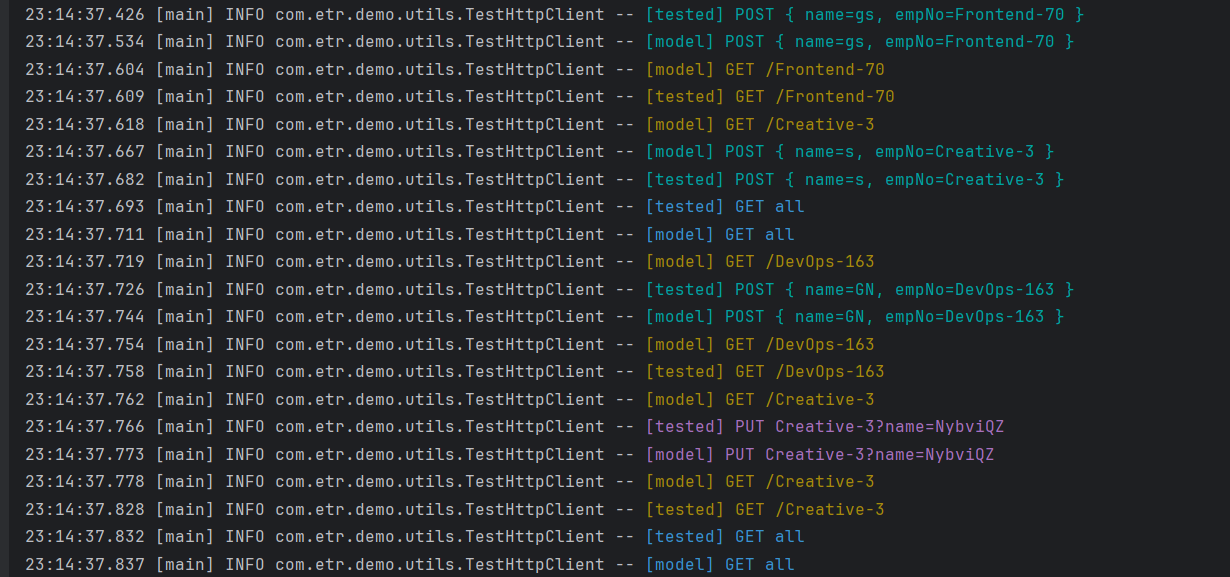
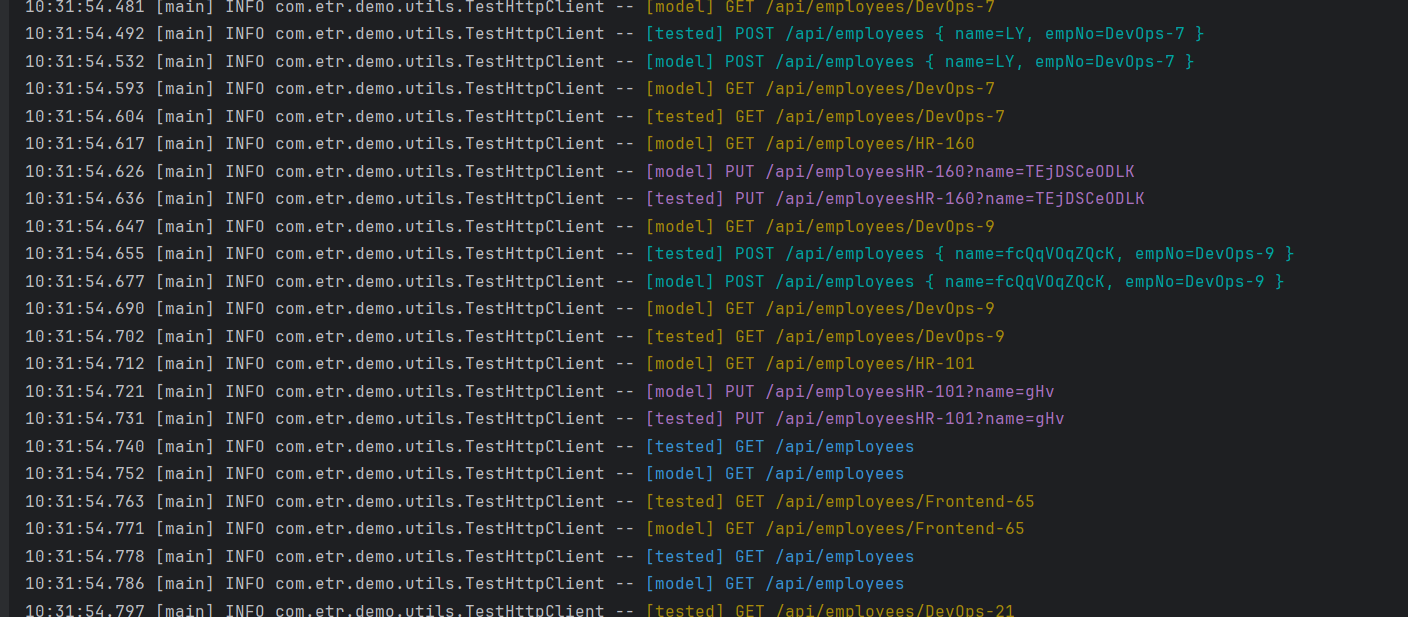
update readme

Changed region(s): [[0.0, 0.0, 0.9268, 1.0]]

diff --git a/src/test/java/com/etr/demo/utils/TestHttpClient.java b/src/test/java/com/etr/demo/utils/TestHttpClient.java
@@ -8,7 +8,6 @@ import org.springframework.web.client.RestTemplate;
 
 import java.util.Arrays;
 import java.util.List;
-import java.util.Map;
 import java.util.Optional;
 
 import static com.etr.demo.utils.LogColors.*;
@@ -21,17 +20,17 @@ public class TestHttpClient {
 	private final String baseUrl;
 	private final RestTemplate restTemplate = new RestTemplateBuilder().build();
 
-	public EmployeeResponse create(String empNo, String name) {
-		EmployeeRequest request = new EmployeeRequest(empNo, name);
-		log.info(CYAN.paint("[%s] POST { name=%s, empNo=%s }".formatted(clientName, name, empNo)));
-		return restTemplate.postForObject(baseUrl, request, EmployeeResponse.class);
+	public EmployeeDto create(String empNo, String name) {
+		CreateEmployeeRequest request = new CreateEmployeeRequest(empNo, name);
+		log.info(CYAN.paint("[%s] POST /api/employees { name=%s, empNo=%s }".formatted(clientName, name, empNo)));
+		return restTemplate.postForObject(baseUrl, request, EmployeeDto.class);
 	}
 
-	public Optional<EmployeeResponse> get(String empNo) {
-		log.info(YELLOW.paint("[%s] GET /%s".formatted(clientName, empNo)));
+	public Optional<EmployeeDto> get(String empNo) {
+		log.info(YELLOW.paint("[%s] GET /api/employees/%s".formatted(clientName, empNo)));
 		String url = baseUrl + "/" + empNo;
 		try {
-			return Optional.of(restTemplate.getForObject(url, EmployeeResponse.class));
+			return Optional.of(restTemplate.getForObject(url, EmployeeDto.class));
 		} catch (HttpClientErrorException.NotFound e) {
 			return Optional.empty();
 		}
@@ -39,19 +38,19 @@ public class TestHttpClient {
 
 	public void update(String employeeNo, String newName) {
 		String url = "%s/%s?name=%s".formatted(baseUrl, employeeNo, newName);
-		log.info(PURPLE.paint("[%s] PUT %s?name=%s".formatted(clientName, employeeNo, newName)));
+		log.info(PURPLE.paint("[%s] PUT /api/employees%s?name=%s".formatted(clientName, employeeNo, newName)));
 		restTemplate.put(url, null);
 	}
 
-	public List<EmployeeResponse> getAll() {
-		log.info(BLUE.paint("[%s] GET all".formatted(clientName)));
-		EmployeeResponse[] employees = restTemplate.getForObject(baseUrl, EmployeeResponse[].class);
+	public List<EmployeeDto> getAll() {
+		log.info(BLUE.paint("[%s] GET /api/employees".formatted(clientName)));
+		EmployeeDto[] employees = restTemplate.getForObject(baseUrl, EmployeeDto[].class);
 		return Arrays.asList(employees);
 	}
 
-	public record EmployeeResponse(String name, Long id, String employeeNo) {
+	public record EmployeeDto(String name, String employeeNo) {
 	}
 
-	public record EmployeeRequest(String employeeNo, String name) {
+	public record CreateEmployeeRequest(String employeeNo, String name) {
 	}
 }

diff --git a/README.md b/README.md
@@ -25,6 +25,7 @@ For the code examples in this demo, we'll use a simple SpringBoot application wi
 
 ![img.png](images/swagger.png)
 
+
 In this example, we'll use a Docker Compose file to spin up different versions of our application. One version will serve as the "model" or source of truth, while the other will be the version under test. Testcontainers and the _DockerComposeContainer_ class will help us manage these container.
 
 We'll also use Jqwik and a custom HTTP client to define actions supported by the API. Jqwik will then generate various action sequences with different parameters to test our service running in the containers. Regardless of whether the HTTP response is a success or failure, we'll compare the tested service's response with the expected response from the model.
@@ -47,11 +48,11 @@ class TestHttpClient {
 
     public EmployeeResponse create(String empNo, String name) { /* ... */ }
 
-    public Optional<EmployeeResponse> get(String empNo) { /* ... */ }
+    public Optional<EmployeeDto> get(String empNo) { /* ... */ }
 
     public void update(String empNo, String newName) { /* ... */ }
 
-    public List<EmployeeResponse> getAll() { /* ... */ }
+    public List<EmployeeDto> getAll() { /* ... */ }
 }
 ```
 ### Jqwik's Actions and Arbitraries
@@ -88,7 +89,7 @@ After declaring all our actions, we'll create an _ActionSequence_. We'll also wr
 ```java
 @Provide
 Arbitrary<ActionSequence<TestedVsModel>> mbtActions() {
-	return Arbitraries.sequences(Arbitraries.oneOf(
+    return Arbitraries.sequences(Arbitraries.oneOf(
         getOneEmployeeAction(),
         getAllEmplyeesAction(),
         createEmployeeAction(),
@@ -168,12 +169,9 @@ As a result, we can now instantiate a [`DockerComposeContainer`](https://java.te
 class ModelBasedTest {
 
 	@Container
-	static DockerComposeContainer<?> ENV = new DockerComposeContainer<>(
-            new File("src/test/resources/docker-compose-test.yml"))
-        .withExposedService("app-tested", 8080,
-            Wait.forHttp("/api/employees").forStatusCode(200))
-        .withExposedService("app-model", 8080,
-            Wait.forHttp("/api/employees").forStatusCode(200))
+	static DockerComposeContainer<?> ENV = new DockerComposeContainer<>(new File("src/test/resources/docker-compose-test.yml"))
+        .withExposedService("app-tested", 8080, Wait.forHttp("/api/employees").forStatusCode(200))
+        .withExposedService("app-model", 8080, Wait.forHttp("/api/employees").forStatusCode(200))
         .withExposedService("postgres", 5432);
 
 	// tests
@@ -198,25 +196,27 @@ private TestHttpClient testClient(int port) {
 ```
 
 If we run the _@Property_ test now, we'll get a sequence of thousands of requests, trying to find inconsistencies between the model and the tested service:
-```java
-23:14:38.767 [main] INFO TestHttpClient -- [tested] POST { name=mmSqEEUCZVoZhHLTSHnaBzASDSYdnYAkqvebImxyeqJf, empNo=Creative-79 }
-23:14:38.831 [main] INFO TestHttpClient -- [model] POST { name=mmSqEEUCZVoZhHLTSHnaBzASDSYdnYAkqvebImxyeqJf, empNo=Creative-79 }
-23:14:38.891 [main] INFO TestHttpClient -- [model] GET /Creative-79
-23:14:38.894 [main] INFO TestHttpClient -- [tested] GET /Creative-79
-23:14:38.898 [main] INFO TestHttpClient -- [tested] GET /Frontend-6
-23:14:38.947 [main] INFO TestHttpClient -- [model] GET /Frontend-6
-23:14:38.950 [main] INFO TestHttpClient -- [model] GET /DevOps-130
-23:14:38.954 [main] INFO TestHttpClient -- [tested] POST { name=tUX, empNo=DevOps-130 }
-23:14:38.980 [main] INFO TestHttpClient -- [model] POST { name=tUX, empNo=DevOps-130 }
-23:14:38.988 [main] INFO TestHttpClient -- [model] GET /DevOps-130
-23:14:38.994 [main] INFO TestHttpClient -- [tested] GET /DevOps-130
-23:14:38.999 [main] INFO TestHttpClient -- [model] GET /Creative-57
-23:14:39.002 [main] INFO TestHttpClient -- [model] PUT Creative-57?name=gJYm
-23:14:39.008 [main] INFO TestHttpClient -- [tested] PUT Creative-57?name=gJYm
-23:14:39.012 [main] INFO TestHttpClient -- [model] GET /Frontend-9
-23:14:39.015 [main] INFO TestHttpClient -- [model] PUT Frontend-9?name=hYgmZzcs
-23:14:39.019 [main] INFO TestHttpClient -- [tested] PUT Frontend-9?name=hYgmZzcs
-23:14:39.024 [main] INFO TestHttpClient -- [model] GET /Backend-39
-23:14:39.029 [main] INFO TestHttpClient -- [model] PUT Backend-39?name=EcmetTrvVlM
-23:14:39.032 [main] INFO TestHttpClient -- [tested] PUT Backend-39?name=EcmetTrvVlM
+```
+10:31:54.492 [main] INFO -- [tested] POST /api/employees { name=LY, empNo=DevOps-7 }
+10:31:54.532 [main] INFO -- [model] POST /api/employees { name=LY, empNo=DevOps-7 }
+10:31:54.593 [main] INFO -- [model] GET /api/employees/DevOps-7
+10:31:54.604 [main] INFO -- [tested] GET /api/employees/DevOps-7
+10:31:54.617 [main] INFO -- [model] GET /api/employees/HR-160
+10:31:54.626 [main] INFO -- [model] PUT /api/employeesHR-160?name=TEjDSCeODLK
+10:31:54.636 [main] INFO -- [tested] PUT /api/employeesHR-160?name=TEjDSCeODLK
+10:31:54.647 [main] INFO -- [model] GET /api/employees/DevOps-9
+10:31:54.655 [main] INFO -- [tested] POST /api/employees { name=fcQqVOqZQcK, empNo=DevOps-9 }
+10:31:54.677 [main] INFO -- [model] POST /api/employees { name=fcQqVOqZQcK, empNo=DevOps-9 }
+10:31:54.690 [main] INFO -- [model] GET /api/employees/DevOps-9
+10:31:54.702 [main] INFO -- [tested] GET /api/employees/DevOps-9
+10:31:54.712 [main] INFO -- [model] GET /api/employees/HR-101
+10:31:54.721 [main] INFO -- [model] PUT /api/employeesHR-101?name=gHv
+10:31:54.731 [main] INFO -- [tested] PUT /api/employeesHR-101?name=gHv
+10:31:54.740 [main] INFO -- [tested] GET /api/employees
+10:31:54.752 [main] INFO -- [model] GET /api/employees
+10:31:54.763 [main] INFO -- [tested] GET /api/employees/Frontend-65
+10:31:54.771 [main] INFO -- [model] GET /api/employees/Frontend-65
+10:31:54.778 [main] INFO -- [tested] GET /api/employees
+10:31:54.786 [main] INFO -- [model] GET /api/employees
+        ...
 ```
